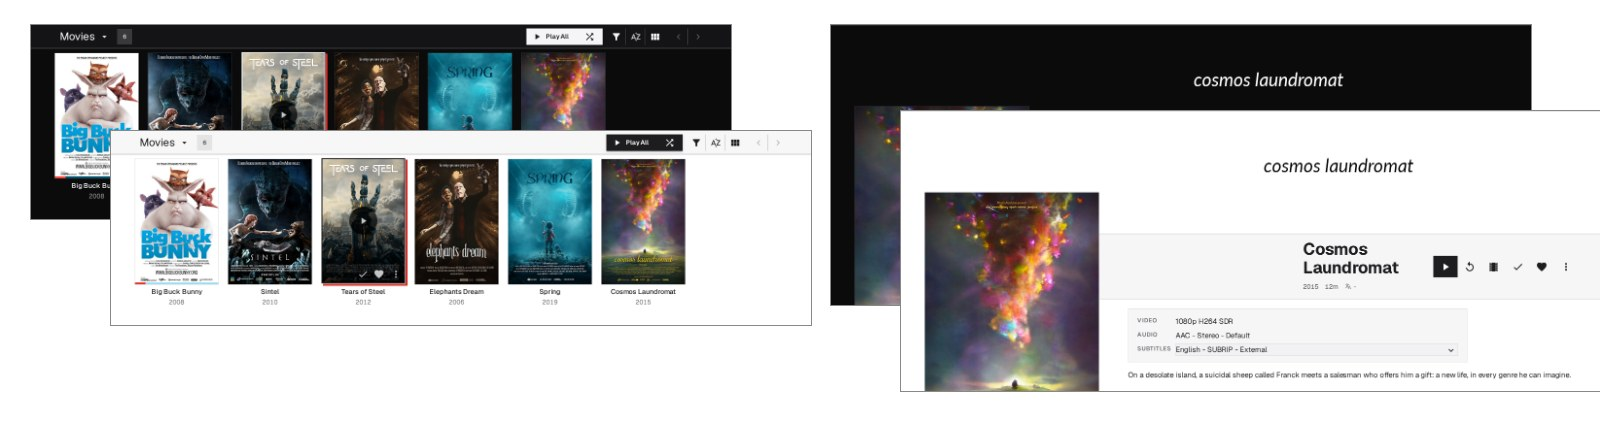
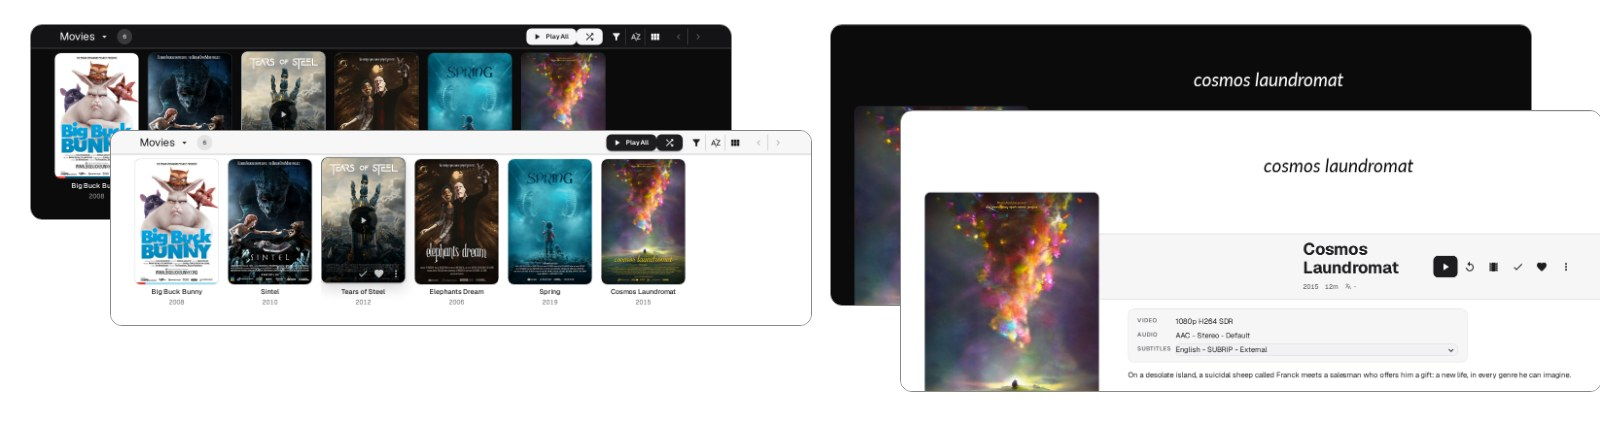
feat: the shape of HolyArrs: rounded corners, a lifting hover and a little red in the headings (#7)

Changed region(s): [[0.1562, 0.1209, 0.2188, 0.3023], [0.1875, 0.6349, 0.2812, 0.6651], [0.1875, 0.3628, 0.2812, 0.393]]

diff --git a/theme.css b/theme.css
@@ -102,8 +102,14 @@
   --color-scheme: dark;
   --mark-have: #1f9d48;
 
-  /* Shape. Square; raise it and the rounded things (buttons, panels, fields) follow. */
-  --radius: 0px;
+  /* Shape: the radii of HolyArrs. */
+  --r-sm: 6px;
+  --r-btn: 10px;
+  --r-card: 12px;
+  --r-panel: 16px;
+  --r-modal: 20px;
+  --r-pill: 999px;
+  --lift: -3px;
 
   /* Elevation. */
   --shadow-lift: 0 2px 4px rgb(0 0 0 / 34%), 0 12px 28px rgb(0 0 0 / 44%), 0 0 0 1px var(--line);
@@ -186,8 +192,8 @@ html:root {
   --jf-palette-background-paper: var(--surface) !important;
   --jf-palette-text-primary: var(--text) !important;
   --jf-palette-text-secondary: var(--muted) !important;
-  --jf-shape-borderRadius: var(--radius) !important;
-  --jf-card-borderRadius: var(--radius) !important;
+  --jf-shape-borderRadius: var(--r-btn) !important;
+  --jf-card-borderRadius: var(--r-card) !important;
 }
 
 /* ---------- 3. Base ---------- */
@@ -284,6 +290,27 @@ h2 {
   letter-spacing: -.018em;
 }
 
+/* A little red in the headings, as in HolyArrs: a small bar before the title of a row, and the
+   title and its arrow turn red when the row is hovered. */
+.sectionTitle-cards::before {
+  content: "";
+  display: inline-block;
+  width: 4px;
+  height: .8em;
+  margin-inline-end: .55em;
+  border-radius: var(--r-sm);
+  vertical-align: -.05em;
+  background: linear-gradient(var(--accent), color-mix(in srgb, var(--accent) 30%, transparent));
+}
+
+.sectionTitleTextButton .chevron_right {
+  color: var(--accent);
+}
+
+.sectionTitleTextButton:hover .sectionTitle {
+  color: var(--accent);
+}
+
 h3 {
   font-size: var(--t-title3);
   font-weight: 600;
@@ -377,7 +404,7 @@ a {
 .headerTabs .emby-tab-button,
 .sectionTabs .emby-tab-button,
 .skinHeader .MuiButton-text {
-  border-radius: var(--radius) !important;
+  border-radius: var(--r-btn) !important;
   color: var(--muted) !important;
   font-weight: 500;
   transition: background-color var(--dur-fast) var(--ease-out), color var(--dur-fast) var(--ease-out);
@@ -429,7 +456,7 @@ a {
 .MuiButton-root,
 .button-submit,
 .raised {
-  border-radius: var(--radius);
+  border-radius: var(--r-btn);
   transition: background-color var(--dur-fast) var(--ease-out), color var(--dur-fast) var(--ease-out), transform var(--dur) var(--ease-spring), box-shadow var(--dur-fast) var(--ease-out);
 }
 
@@ -447,7 +474,7 @@ a {
   background: var(--text) !important;
   color: var(--btn-ink) !important;
   border: 0 !important;
-  border-radius: var(--radius) !important;
+  border-radius: var(--r-btn) !important;
   font-weight: 600;
 }
 
@@ -459,7 +486,7 @@ a {
 
 .button-flat,
 .detailButton:not(.btnPlay) {
-  border-radius: var(--radius);
+  border-radius: var(--r-btn);
 }
 
 .detailButton:not(.btnPlay):hover,
@@ -477,7 +504,7 @@ a {
 .cardScalable,
 .cardImageContainer,
 .visualCardBox {
-  border-radius: var(--radius) !important;
+  border-radius: var(--r-card) !important;
 }
 
 .cardScalable,
@@ -503,24 +530,14 @@ a.cardImageContainer {
   background-color: transparent;
 }
 
-/* Hover and focus, like the cards on HolyArrs' site: the card moves up 2px and a solid red block
-   shows behind it, down and to the right. Not to the left (the first card of a row would run into
-   the edge), and whole pixels only (a scale puts edges on half pixels and one side can fade). */
-.card-hoverable:hover .cardScalable,
-.card-hoverable:hover .visualCardBox,
-.card:focus-visible .cardScalable,
-.card:focus-visible .cardBox.visualCardBox {
-  transform: translateY(-2px);
-  border-color: transparent !important;
-  box-shadow: 4px 4px 0 var(--accent-fill) !important;
-}
-
-/* The light edge is a layer on top of the picture, so all four sides show. */
+/* The light edge (dark in the light look) is a layer on top of the picture, so all four sides show and it follows the
+   rounded corners. */
 .cardScalable::after {
   content: "";
   position: absolute;
   inset: 0;
   z-index: 5;
+  border-radius: inherit;
   pointer-events: none;
   box-shadow: inset 0 0 0 2px transparent;
   transition: box-shadow var(--dur-fast) var(--ease-out);
@@ -528,14 +545,22 @@ a.cardImageContainer {
 
 .card-hoverable:hover .cardScalable::after,
 .card:focus-visible .cardScalable::after {
-  box-shadow: inset 0 0 0 2px var(--edge);
+  box-shadow: inset 0 0 0 1px var(--edge);
 }
 
-/* Pressed: it sinks back towards the block. */
+/* Hover and focus, as on HolyArrs: the card rises 3px with a deeper shadow and a fine edge;
+   pressed, it shrinks a little. */
+.card-hoverable:hover .cardScalable,
+.card-hoverable:hover .visualCardBox,
+.card:focus-visible .cardScalable,
+.card:focus-visible .cardBox.visualCardBox {
+  transform: translateY(var(--lift));
+  box-shadow: var(--shadow-lift) !important;
+}
+
 .card-hoverable:active .cardScalable {
-  transform: translateY(1px);
-  box-shadow: 1px 1px 0 var(--accent-fill) !important;
-  transition-duration: 60ms;
+  transform: scale(.98);
+  transition-duration: 90ms;
 }
 
 .cardText {
@@ -582,7 +607,7 @@ a.cardImageContainer {
 /* ---------- 7. Film page ---------- */
 .detailImageContainer .cardScalable,
 .detailImageContainer .cardBox {
-  border-radius: var(--radius) !important;
+  border-radius: var(--r-card) !important;
 }
 
 /* The band with the title and the buttons has room: it grows downward (its top edge stays where
@@ -675,7 +700,7 @@ a.cardImageContainer {
 .streaming-lookup-container > div {
   background: var(--surface) !important;
   border: 1px solid var(--line) !important;
-  border-radius: var(--radius) !important;
+  border-radius: var(--r-panel) !important;
   -webkit-backdrop-filter: none !important;
   backdrop-filter: none !important;
 }
@@ -693,6 +718,7 @@ a.cardImageContainer {
 .trackSelections {
   background: var(--surface);
   border: 1px solid var(--line);
+  border-radius: var(--r-card);
   padding: .9em 1.2em .5em;
 }
 
@@ -736,7 +762,7 @@ button.raised:not(.button-submit):hover {
 .formDialogContent {
   background: var(--surface) !important;
   border: 1px solid var(--line);
-  border-radius: var(--radius) !important;
+  border-radius: var(--r-modal) !important;
   box-shadow: var(--shadow-modal) !important;
 }
 
@@ -745,7 +771,7 @@ button.raised:not(.button-submit):hover {
 .MuiMenu-paper {
   background: var(--glass) !important;
   border: 1px solid var(--line);
-  border-radius: var(--radius) !important;
+  border-radius: var(--r-panel) !important;
   -webkit-backdrop-filter: saturate(180%) blur(20px);
   backdrop-filter: saturate(180%) blur(20px);
   box-shadow: var(--shadow-lift) !important;
@@ -754,7 +780,7 @@ button.raised:not(.button-submit):hover {
 .MuiTooltip-tooltip {
   background: var(--surface-2) !important;
   border: 1px solid var(--line-strong);
-  border-radius: var(--radius) !important;
+  border-radius: var(--r-sm) !important;
   color: var(--text) !important;
   font-family: var(--font);
   font-size: var(--t-footnote);
@@ -766,7 +792,7 @@ button.raised:not(.button-submit):hover {
 
 .MuiPaper-rounded,
 .MuiChip-root {
-  border-radius: var(--radius) !important;
+  border-radius: var(--r-panel) !important;
 }
 
 .dialogBackdrop,
@@ -786,7 +812,7 @@ button.raised:not(.button-submit):hover {
 .listItem,
 .MuiMenuItem-root,
 .actionSheetMenuItem {
-  border-radius: var(--radius);
+  border-radius: var(--r-btn);
   transition: background-color var(--dur-fast) var(--ease-out);
 }
 
@@ -803,7 +829,7 @@ button.raised:not(.button-submit):hover {
 .MuiOutlinedInput-root {
   background: var(--surface-2) !important;
   border: 1px solid var(--line) !important;
-  border-radius: var(--radius) !important;
+  border-radius: var(--r-btn) !important;
   color: var(--text);
   transition: border-color var(--dur-fast) var(--ease-out), box-shadow var(--dur-fast) var(--ease-out);
 }
@@ -842,7 +868,7 @@ button.raised:not(.button-submit):hover {
     background: var(--glass);
     color: var(--text);
     border: 1px solid var(--line-strong);
-    border-radius: var(--radius);
+    border-radius: var(--r-panel);
     box-shadow: var(--shadow-lift);
     padding: 4px;
     -webkit-backdrop-filter: saturate(180%) blur(20px);
@@ -885,7 +911,7 @@ button.raised:not(.button-submit):hover {
 }
 
 .navMenuOption {
-  border-radius: var(--radius);
+  border-radius: var(--r-btn);
   margin: 2px 8px;
   transition: background-color var(--dur-fast) var(--ease-out);
 }

diff --git a/tools/check.py b/tools/check.py
@@ -4,8 +4,8 @@
     tools/check.py <jellyfin-web-dir> [--update-baseline]
 
 What it checks:
-  1. The stylesheet itself: balanced braces, every var(--x) is defined, no rounded corners,
-     no fixed Jellyfin blue.
+  1. The stylesheet itself: balanced braces, every var(--x) is defined, corners only from the radii of
+     HolyArrs (--r-*), no fixed Jellyfin blue.
   2. Drift: every class the theme styles still exists in that Jellyfin version.
   3. New blue: Jellyfin has not gained more fixed blue than the theme was made against
      (tools/blue-baseline.json; refresh it with --update-baseline after a version you have looked at).
@@ -42,8 +42,9 @@ def own_checks(css):
         if not name.startswith("--jf-"):
             problems.append(f"var({name}) is used but never defined")
     for value in re.findall(r"border-radius\s*:\s*([^;]+);", css):
-        if value.strip().replace("!important", "").strip() not in ("0", "var(--radius)"):
-            problems.append(f"border-radius: {value.strip()} (corners are meant to be square)")
+        v = value.strip().replace("!important", "").strip()
+        if v not in ("0", "inherit") and not re.fullmatch(r"var\(--r-(sm|btn|card|panel|modal|pill)\)", v):
+            problems.append(f"border-radius: {value.strip()} (use one of the radii --r-sm, --r-btn, --r-card, --r-panel, --r-modal, --r-pill)")
     for blue in BLUES:
         if blue in css.lower():
             problems.append(f"{blue} is written in the theme (use the accent)")

diff --git a/README.md b/README.md
@@ -5,8 +5,8 @@
 <img src="docs/social-preview.png" alt="Holyfin: a dark and a light theme for Jellyfin">
 
 A calm theme for [Jellyfin](https://jellyfin.org), dark and light. Dark is near-black greys, light is
-white with soft greys; both have one red accent, square corners and
-[Geist](https://github.com/vercel/geist-font), after the look of
+white with soft greys; both have one red accent, the rounded corners and shadows of HolyArrs
+and [Geist](https://github.com/vercel/geist-font), after the look of
 [HolyArrs](https://github.com/HolyArrs/HolyArrs). Which one shows follows Jellyfin's own Theme
 setting.
 
@@ -22,8 +22,10 @@ the server, and it works in the web client and in the apps built on it.
 
 - **One accent.** Jellyfin's blue is gone from the app: focus, links, switches, sliders, loading
   circles. It is the same red throughout.
-- **Posters that react.** Hovering a poster lifts it 2 px, draws a light edge and puts a solid red block
-  behind it. Watched titles get a green tick, counts are red, progress is red.
+- **Posters that react.** Hovering a poster lifts it 3 px, with a deeper shadow and a fine edge (light in
+  the dark look, dark in the light one). Watched titles get a green tick, counts are red, progress is red.
+- **A little red in the headings.** A small red bar before the title of each row, and the title and its
+  arrow turn red when you hover it.
 - **A film page with room.** A taller band for the title and buttons, the logo above it, the video
   and audio details in a quiet panel with small capitals as labels.
 - **Glass where things open.** The top bar, menus and drop-down lists are blurred glass with a fine
@@ -31,7 +33,8 @@ the server, and it works in the web client and in the apps built on it.
 - **Geist, delivered with the theme.** Nothing is loaded from Google.
 - **Calm motion** in one set of durations and curves, and none at all for anyone who asked their
   system for less motion.
-- **Square corners.** One setting (`--radius`) if you would rather have them round.
+- **The shape of HolyArrs.** Rounded corners in the same sizes (6, 10, 12, 16 and 20 px) and its shadows;
+  set a radius to 0 in the tokens if you want it square.
 - **A light look too.** It follows Jellyfin's own setting: pick **Light** under Settings, Display,
   Theme and Holyfin turns light (the light palette of HolyArrs); pick **Dark** and it is dark.
   Every other Jellyfin theme shows the dark look. Each person chooses for themselves, and Jellyfin
@@ -44,10 +47,10 @@ the server, and it works in the web client and in the apps built on it.
 In Jellyfin, open **Dashboard, General, Custom CSS** and add:
 
 ```css
-@import url("https://cdn.jsdelivr.net/gh/roffaboy/holyfin@v1.0.0/theme.css");
+@import url("https://cdn.jsdelivr.net/gh/roffaboy/holyfin@v1.1.0/theme.css");
 ```
 
-Name a version (`@v1.0.0`), not `@main`. A version never changes under you, and the CDN keeps it.
+Name a version (`@v1.1.0`), not `@main`. A version never changes under you, and the CDN keeps it.
 The newest one is on the [Releases page](https://github.com/roffaboy/holyfin/releases/latest), with
 what changed. Reload Jellyfin with Ctrl+Shift+R after you change it.
 
@@ -72,7 +75,8 @@ Everything below the first section of `theme.css` reads from the tokens at the t
 | `--bg`, `--surface`, `--surface-2`, `--surface-3` | page and panel greys | `#0b0b0c` to `#2a2a2e` |
 | `--accent`, `--accent-fill` | the red, for text and icons, and for fills | `#ff453a`, `#d42d24` |
 | `--text`, `--muted`, `--faint` | text colours | `#f5f5f7`, `#a1a1a6`, `#7c7c80` |
-| `--radius` | corner radius of buttons, panels and fields | `0px` |
+| `--r-sm`, `--r-btn`, `--r-card`, `--r-panel`, `--r-modal` | corner radii: small things, buttons and fields, posters, menus and panels, dialogs | 6, 10, 12, 16, 20 px |
+| `--lift` | how far a poster rises on hover | `-3px` |
 | `--font` | the typeface | Geist |
 | `--dur-fast`, `--dur`, `--dur-slow` | how long motion takes | 150, 240, 360 ms |
 
@@ -83,6 +87,7 @@ face), change the tokens and import your copy.
 
 | Holyfin | Jellyfin |
 | ------- | -------- |
+| 1.1.x   | 12.4     |
 | 1.0.x   | 12.4     |
 
 Holyfin is made and tested on **Jellyfin 12.4**. Older versions are not tested. Jellyfin's styles
@@ -101,7 +106,7 @@ is the most useful thing to report.
 ## Contributing
 
 Issues and pull requests are welcome. See [CONTRIBUTING.md](CONTRIBUTING.md). The look follows
-HolyArrs, with square corners; changes that round things off are out of scope.
+HolyArrs, with its radii and shadows.
 
 ## Credits
 

diff --git a/CONTRIBUTING.md b/CONTRIBUTING.md
@@ -1,7 +1,7 @@
 # Contributing
 
 Issues and pull requests are welcome, especially a page that still shows blue or a class that
-Jellyfin has moved. The look follows HolyArrs, with square corners.
+Jellyfin has moved. The look follows HolyArrs, with its radii and shadows.
 
 ## Before you open a pull request
 
@@ -20,8 +20,8 @@ docker rm "$id"
 ```
 
 `tools/check.py` checks that the classes the theme styles still exist in that Jellyfin, that
-Jellyfin has not gained more fixed blue than `tools/blue-baseline.json` records, that nothing is
-rounded and that every variable is defined. Both checks run on every push and pull request, and
+Jellyfin has not gained more fixed blue than `tools/blue-baseline.json` records, that every corner uses one of
+the radii of HolyArrs and that every variable is defined. Both checks run on every push and pull request, and
 every Monday against the newest Jellyfin; a Monday run that finds drift opens an issue.
 
 ## After a new Jellyfin
@@ -32,7 +32,8 @@ When the weekly check finds drift, or after you update Jellyfin yourself:
 2. Look at the pages by eye (the checks find what was renamed, not what looks wrong): home and a
    poster on hover, a library, a film page, a drop-down list, a dialog and a menu, the dashboard,
    a settings page and the sign-in page, in the dark look and in the light one (Settings, Display,
-   Theme). Nothing should be blue and nothing rounded. The Dashboard is not themed: Jellyfin does
+   Theme). Nothing should be blue and no corner should be square or
+   rounded differently from its neighbours. The Dashboard is not themed: Jellyfin does
    not load custom CSS there.
 3. If you are happy with it, run `python3 tools/check.py <dir> --update-baseline` and commit the result.
 4. Change the version table in the README and release (below).
